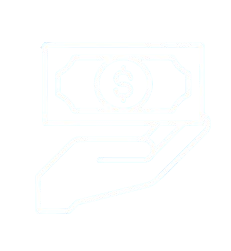
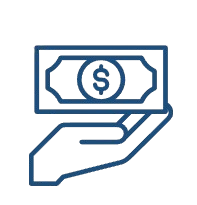
-IMPROVED LAUNCH PAGE

Changed region(s): [[0.1218, 0.2049, 0.8832, 0.9073]]

diff --git a/src/main/java/LaunchPage.java b/src/main/java/LaunchPage.java
@@ -14,15 +14,11 @@ public class LaunchPage extends JFrame {
     private final ImageIcon navAppLogo = new ImageIcon("navAppLogo.png");
 
     //WRAPPER BUTTONS
-    private final JPanel payBillsWrapper;
-    private final JPanel cashInWrapper;
-    private final JPanel cashOutWrapper;
-    private final JPanel requestMoneyWrapper;
-    private final JPanel bankTransferWrapper;
-    private final JPanel buyCryptoWrapper;
+    private final JPanel payBillsWrapper,cashInWrapper, cashOutWrapper, requestMoneyWrapper, bankTransferWrapper, buyCryptoWrapper;
+    GradientPanel navBarPanel =  new GradientPanel(style.dvBlue, style.vBlue, 15);
 
     //Buttons
-    ArrayList<RoundedPanel> buttons = new ArrayList<>();
+    ArrayList<RoundedBorder> buttons = new ArrayList<>();
     public LaunchPage(){
         //MAIN FRAME
         mainFrame.setDefaultCloseOperation(JFrame.EXIT_ON_CLOSE);
@@ -33,6 +29,8 @@ public class LaunchPage extends JFrame {
         mainFrame.setResizable(false);
         mainFrame.setLayout(new BorderLayout());
         mainFrame.setUndecorated(true);
+        mainFrame.setBackground(Color.white);
+        mainFrame.getContentPane().setBackground(Color.white);
 
         //UPPER PANELS
         JPanel nPanel = createPanel(new Dimension(360, 150), null, new FlowLayout());
@@ -44,19 +42,19 @@ public class LaunchPage extends JFrame {
         JLabel pesoSign = new JLabel(pesoSymbol);
 
         //BALANCE PANEL
-        RoundedBorder balPanel = new RoundedBorder(15, style.pBlue, 3);
+        GradientPanel balPanel = new GradientPanel(style.dvBlue, style.vBlue, 15);
         balPanel.setLayout(new BorderLayout());
         balPanel.setPreferredSize(new Dimension(360, 110));
 
         //BALANCE TEXT
-        JLabel balanceText = createLabel("Available Balance: ", style.loadFont(Font.BOLD, 18f, "Quicksand-Regular"), style.dBlue);
+        JLabel balanceText = createLabel("Available Balance: ", style.loadFont(Font.BOLD, 18f, "Quicksand-Regular"), style.white);
         balanceText.setHorizontalTextPosition(JLabel.LEFT);
 
         //UPPER BALANCE PANEL
         upperBalancePanel.setOpaque(false);
 
         //BALANCE AMOUNT
-        JLabel amountText = createLabel(String.format( "%s 15,000", pesoSymbol), style.loadFont(Font.PLAIN, 40f, "Quicksand-Regular"), style.pBlue);
+        JLabel amountText = createLabel(String.format( "%s 15,000", pesoSymbol), style.loadFont(Font.PLAIN, 40f, "Quicksand-Regular"), style.white);
         amountText.setVerticalTextPosition(JLabel.CENTER);
 
         //AMOUNT PANEL
@@ -81,7 +79,7 @@ public class LaunchPage extends JFrame {
         //BUTTON PANELS
         JPanel buttonPanel = createPanel(null, null, new GridLayout(2, 3, 25, 10));
         for(int i = 0; i<6; i++){
-            buttons.add(new RoundedPanel(25, style.pBlue));
+            buttons.add(new RoundedBorder(25, style.vBlue, 2));
         }
         String[] buttonNames = {"sendMoney.png", "cashIn.png", "cashOut.png", "requestMoney.png", "bankTransfer.png", "buyCrypto.png"};
         //RESIZE BUTTON IMAGES
@@ -140,7 +138,7 @@ public class LaunchPage extends JFrame {
         transactionRoundedPanel.add(transactionContentPanel, BorderLayout.CENTER);
 
 // Transaction container wrapper
-        RoundedBorder transactionContainer = new RoundedBorder(15, style.pBlue, 2);
+        RoundedBorder transactionContainer = new RoundedBorder(15, style.vBlue, 2);
         transactionContainer.setLayout(new FlowLayout());
         transactionContainer.setOpaque(false);
         transactionContainer.setMaximumSize(new Dimension(390, 160));
@@ -148,7 +146,7 @@ public class LaunchPage extends JFrame {
         transactionContainer.add(transactionRoundedPanel);
 
         // Navigation bar at the bottom
-        JPanel navBarPanel = createPanel(new Dimension(420, 60), null, new GridLayout(1, 3));
+        navBarPanel.setLayout(new GridLayout(1,3));
         navBarPanel.setForeground(style.dBlue);
 
         navBarPanel.setForeground(style.dBlue);
@@ -170,6 +168,9 @@ public class LaunchPage extends JFrame {
         mainContentPanel.add(centerPanel);
         mainContentPanel.add(transactionContainer);
 
+        nPanel.setOpaque(false);
+        mainContentPanel.setBackground(style.white);
+
         mainFrame.add(nPanel, BorderLayout.NORTH);
         mainFrame.add(mainContentPanel, BorderLayout.CENTER);
         mainFrame.add(navBarPanel, BorderLayout.SOUTH);
@@ -177,11 +178,12 @@ public class LaunchPage extends JFrame {
     }
 
     private JPanel createNavButton(String icon, String text, boolean isActive, boolean exit) {
-        JPanel navButton = createPanel(null, style.pBlue, null);
+        JPanel navButton = new JPanel(new FlowLayout());
         navButton.setLayout(new BoxLayout(navButton, BoxLayout.Y_AXIS));
         navButton.setCursor(new Cursor(Cursor.HAND_CURSOR));
         navButton.setBorder(BorderFactory.createEmptyBorder(0, 10, 0, 10));
-        navButton.setPreferredSize(new Dimension(80, 45)); // Fixed height
+        navButton.setPreferredSize(new Dimension(80, 60)); // Fixed height
+        navButton.setOpaque(false);
 
 
         JLabel iconLabel = createLabel(icon, new Font("Segoe UI Emoji", Font.PLAIN, 30), null);
@@ -206,12 +208,16 @@ public class LaunchPage extends JFrame {
                 if (!isActive) {
                     iconLabel.setForeground(Color.WHITE);
                     textLabel.setForeground(Color.WHITE);
+
+                    navBarPanel.setGradientColors(style.vBlue, style.dvBlue);
                 }
             }
             public void mouseExited(java.awt.event.MouseEvent evt) {
                 if (!isActive) {
                     iconLabel.setForeground(new Color(150, 150, 150));
                     textLabel.setForeground(new Color(150, 150, 150));
+
+                    navBarPanel.setGradientColors(style.dvBlue, style.vBlue);
                 }
             }
 
@@ -275,7 +281,7 @@ public class LaunchPage extends JFrame {
         buttonPanel.add(buyCryptoWrapper);
     }
 
-    private JPanel styleButton(RoundedPanel button, String text, ImageIcon image) {
+    private JPanel styleButton(RoundedBorder button, String text, ImageIcon image) {
         //WRAPPER PANEL
         JPanel wrapperPanel = createPanel(new Dimension(95, 90), null, new BorderLayout());
 
@@ -288,10 +294,10 @@ public class LaunchPage extends JFrame {
         JLabel imageLabel =  new JLabel(image);
         imageLabel.setIcon(image);
         imageLabel.setHorizontalAlignment(JLabel.CENTER);
-        imageLabel.setForeground(style.gray);
+        imageLabel.setForeground(style.sBlue);
 
         //TEXT LABEL
-        JLabel buttonLabel = createLabel(text, style.loadFont(Font.BOLD, 12f, "Quicksand-Bold"), style.dBlue);
+        JLabel buttonLabel = createLabel(text, style.loadFont(Font.BOLD, 12f, "Quicksand-Regular"), style.pBlue);
         buttonLabel.setHorizontalAlignment(JLabel.CENTER);
         buttonLabel.setBorder(BorderFactory.createEmptyBorder(0, 0, 0, 0));
         button.add(imageLabel, BorderLayout.CENTER);
@@ -299,15 +305,15 @@ public class LaunchPage extends JFrame {
         button.addMouseListener(new java.awt.event.MouseAdapter() {
             public void mouseEntered(java.awt.event.MouseEvent evt) {
                 button.setBackground(style.dBlue);
-                buttonLabel.setForeground(style.pBlue);
+                buttonLabel.setForeground(style.dBlue);
                 button.setPreferredSize(new Dimension(55, 75));
 
                 revalidateParentContainers(button);
                 button.repaint();
             }
             public void mouseExited(java.awt.event.MouseEvent evt) {
-                button.setBackground(style.pBlue);
-                buttonLabel.setForeground(style.dBlue);
+                button.setBackground(style.vBlue);
+                buttonLabel.setForeground(style.pBlue);
                 button.setPreferredSize(new Dimension(50, 70));
 
                 revalidateParentContainers(button);

diff --git a/src/main/java/GradientPanel.java b/src/main/java/GradientPanel.java
@@ -1,0 +1,53 @@
+import javax.swing.*;
+import java.awt.*;
+import java.awt.geom.Point2D;
+import java.awt.geom.RoundRectangle2D;
+
+public class GradientPanel extends JPanel {
+    private Color startColor;
+    private Color endColor;
+    private int cornerRadius;
+
+    public GradientPanel() {
+        // Default blue gradient colors
+        this.startColor = new Color(0, 120, 215);  // Deep blue
+        this.endColor = new Color(100, 180, 255);  // Light blue
+    }
+
+    public GradientPanel(Color startColor, Color endColor, int cornerRadius) {
+        this.startColor = startColor;
+        this.endColor = endColor;
+        this.cornerRadius = cornerRadius;
+    }
+
+    public void setGradientColors(Color startColor, Color endColor) {
+        this.startColor = startColor;
+        this.endColor = endColor;
+        repaint(); // Trigger a repaint with the new colors
+    }
+
+    @Override
+    protected void paintComponent(Graphics g) {
+        super.paintComponent(g);
+
+        Graphics2D g2d = (Graphics2D) g;
+
+        g2d.setRenderingHint(RenderingHints.KEY_ANTIALIASING, RenderingHints.VALUE_ANTIALIAS_ON);
+
+        // Create a gradient paint from top to bottom
+        GradientPaint gradient = new GradientPaint(
+                new Point2D.Float(0, 0),
+                startColor,
+                new Point2D.Float(0, getHeight()),
+                endColor
+        );
+
+        // Create rounded rectangle
+        RoundRectangle2D roundedRect = new RoundRectangle2D.Float(
+                0, 0, getWidth(), getHeight(), cornerRadius, cornerRadius
+        );
+
+        g2d.setPaint(gradient);
+        g2d.fill(roundedRect);
+    }
+}

diff --git a/src/main/java/Style.java b/src/main/java/Style.java
@@ -11,6 +11,8 @@ public final class Style {
     public static final Color lBlue = new Color(0xC4E4FF);
     public static final Color black = new Color(0x000000);
     public static final Color white = new Color(0xFFFFFF);
+    public static final Color vBlue = new Color(0x1A43BF);
+    public static final Color dvBlue = new Color(0x123499);
     public static final Color transparent = new Color(0,0,0,0);
 
 

diff --git a/src/main/java/Payday.java b/src/main/java/Payday.java
@@ -10,7 +10,7 @@ public class Payday {
     public static void main(String[] args) {
         //Initalize SplashScreen before launch page
         SplashScreen splash = new SplashScreen();
-        splash.showSplash(2);
+        splash.showSplash(0);
 
         //RUNS LAUNCH PAGE AFTER INITIALIZATION
         SwingUtilities.invokeLater(new Runnable() {
